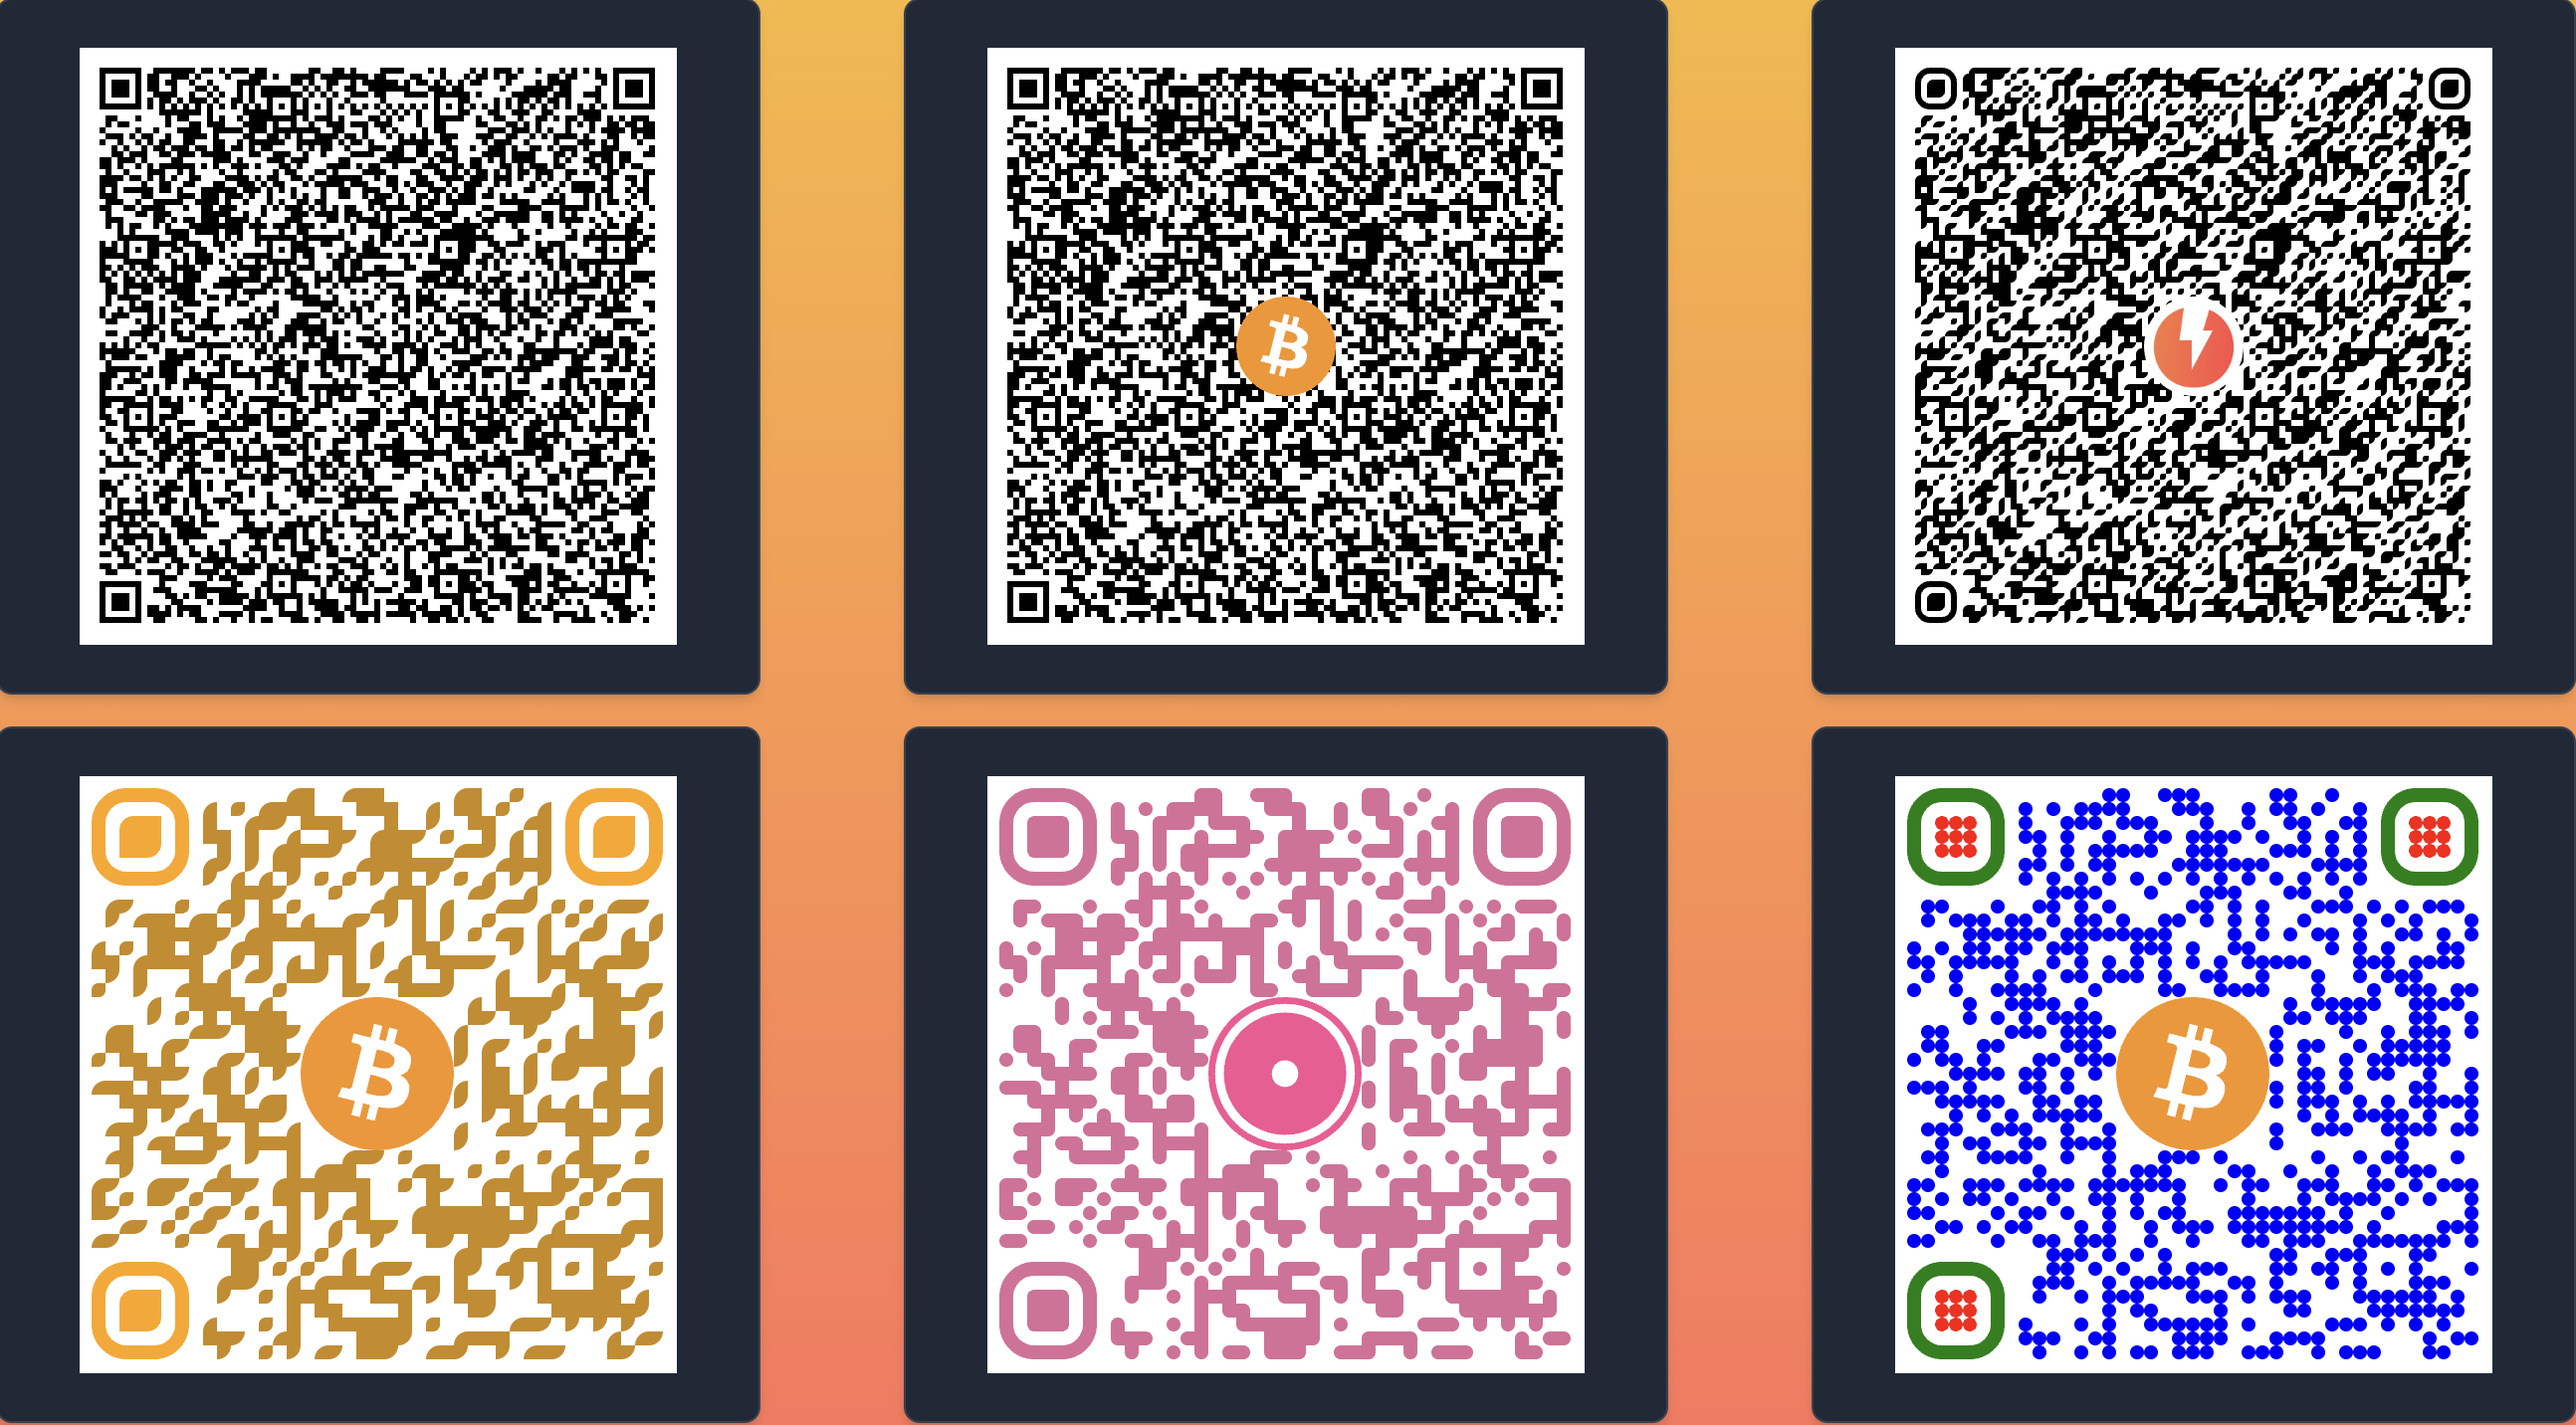
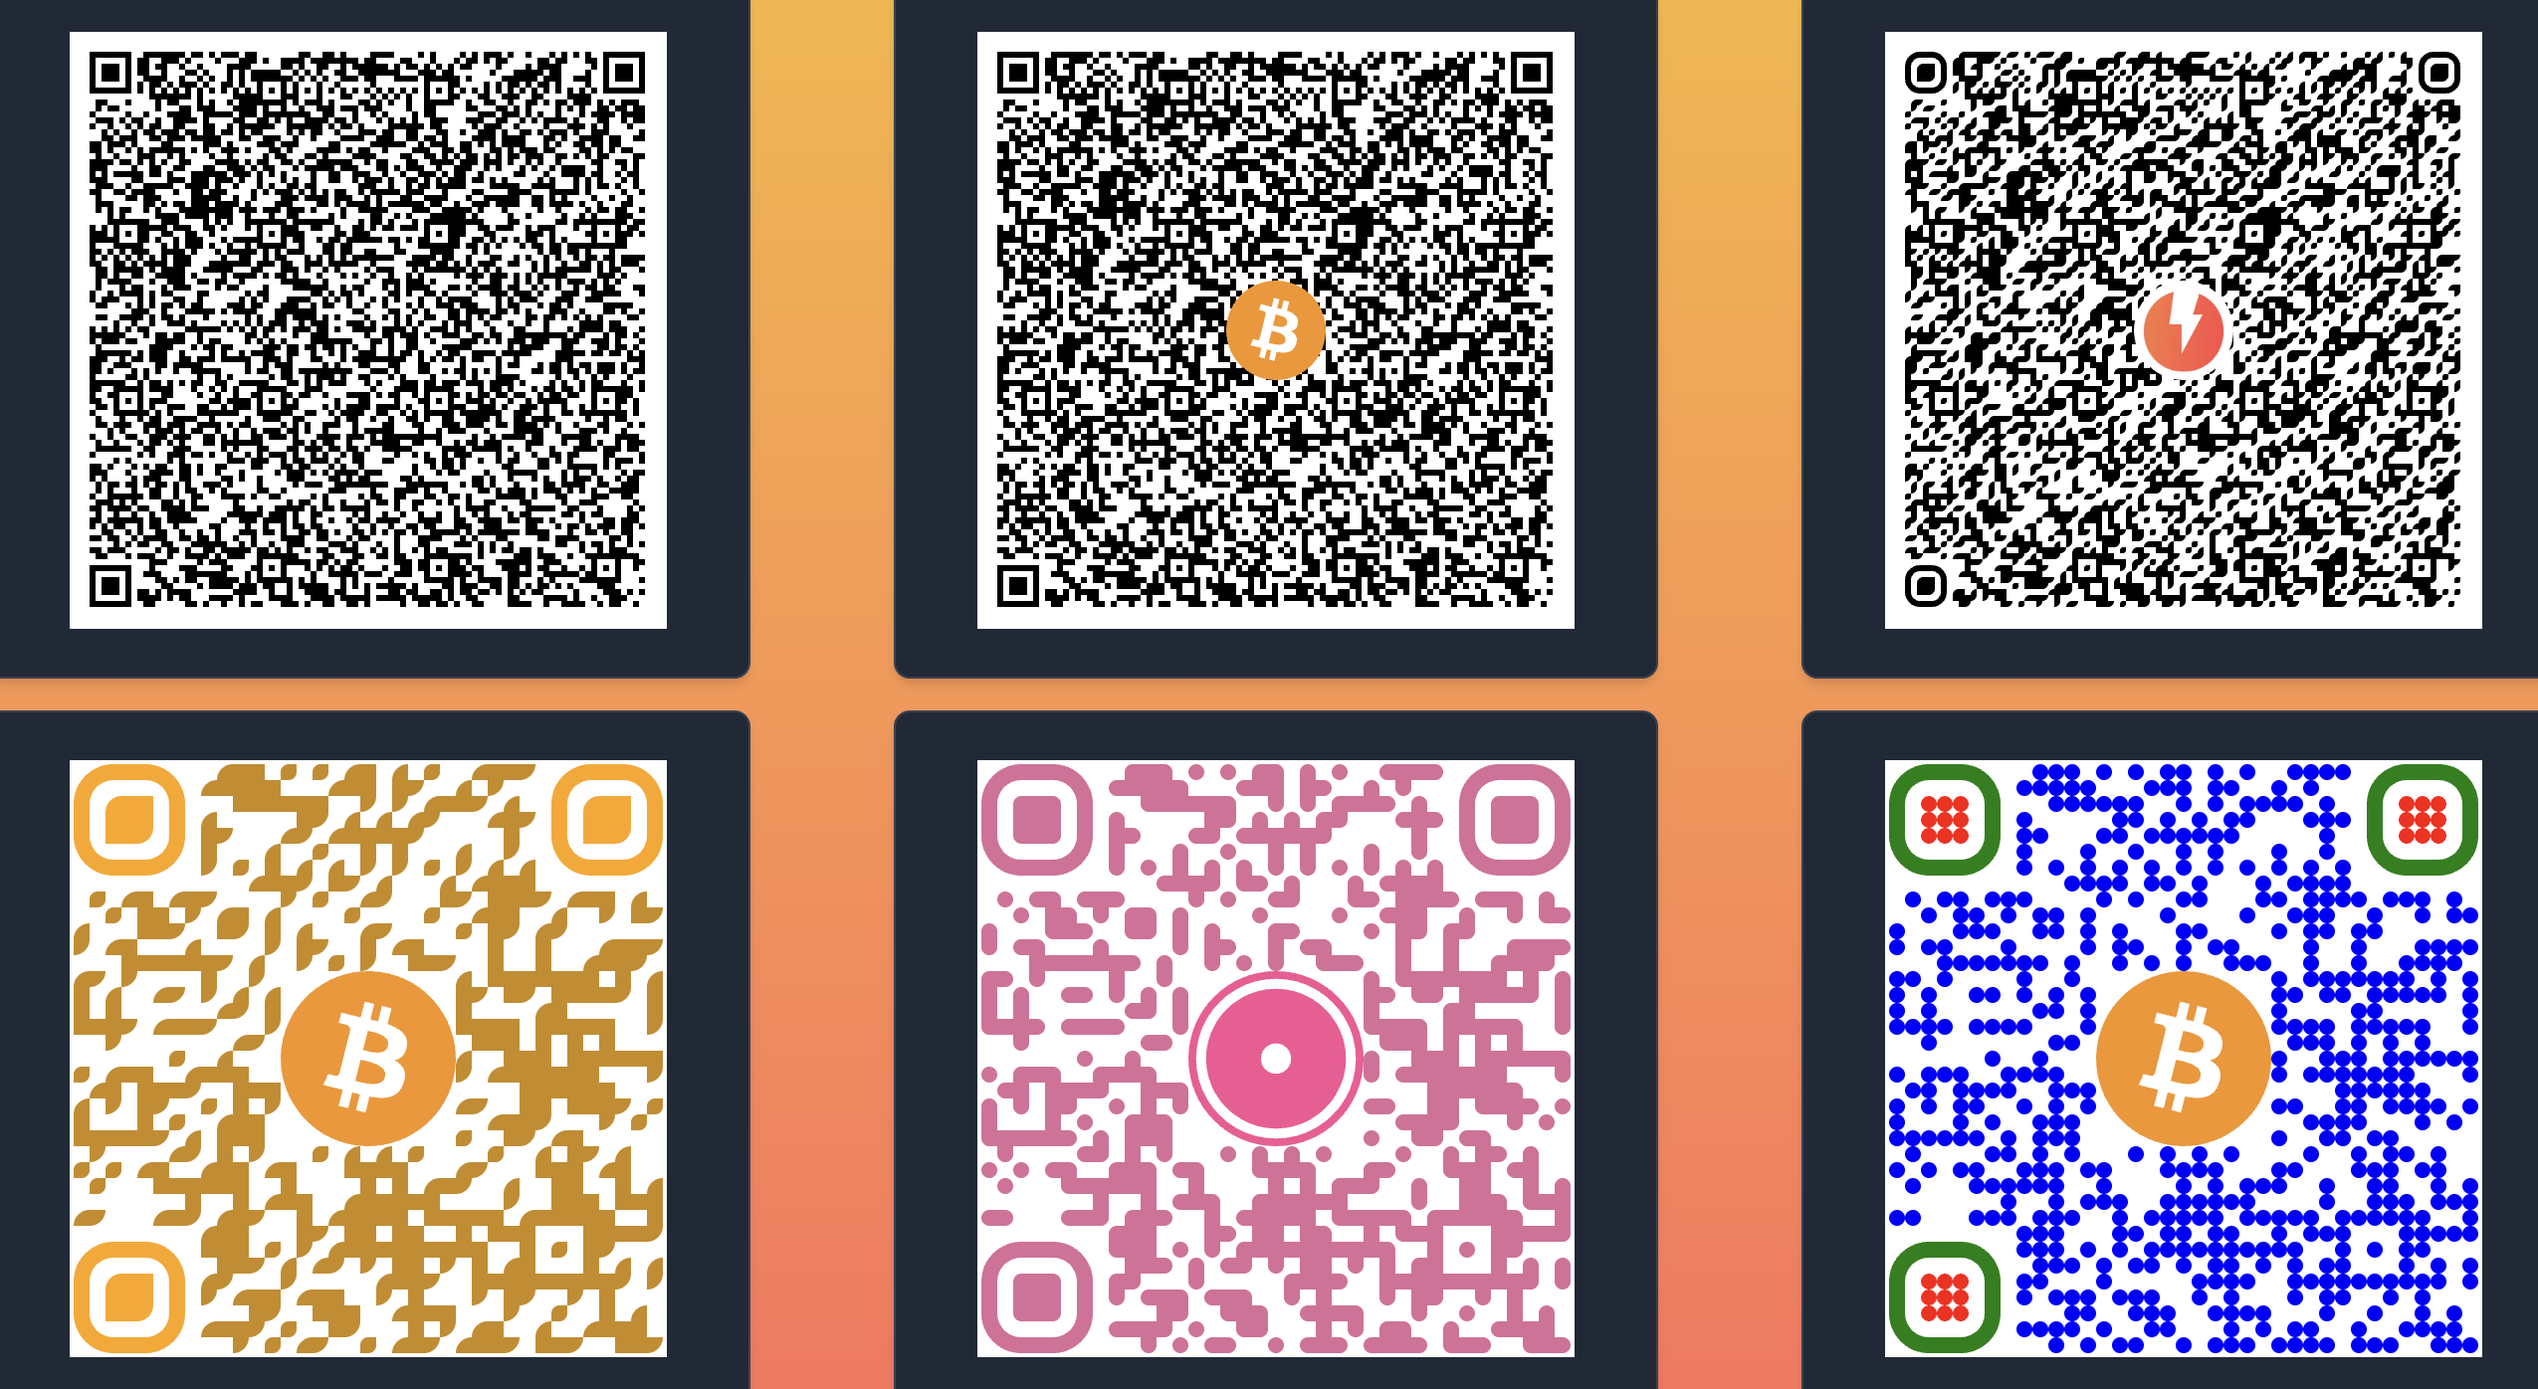
update README

diff --git a/README.md b/README.md
@@ -9,10 +9,7 @@ A zero-dependency, zero-framework QR code [web component](https://developer.mozi
 PRs and suggestions welcome!
 
 <p float="left">
-<!-- <img src="./src/assets/images/voltage-qr.png" width="200"/>
-<img src="./src/assets/images/payjoin-qr.png" width="200"/>
-<img src="./src/assets/images/bitcoin-qr.png" width="200"/> -->
-<img src="./src/assets/images/qrs.png" width="400">
+<img src="./src/assets/images/qrs.png" width="800">
 </p>
 
 ## Table of Contents
